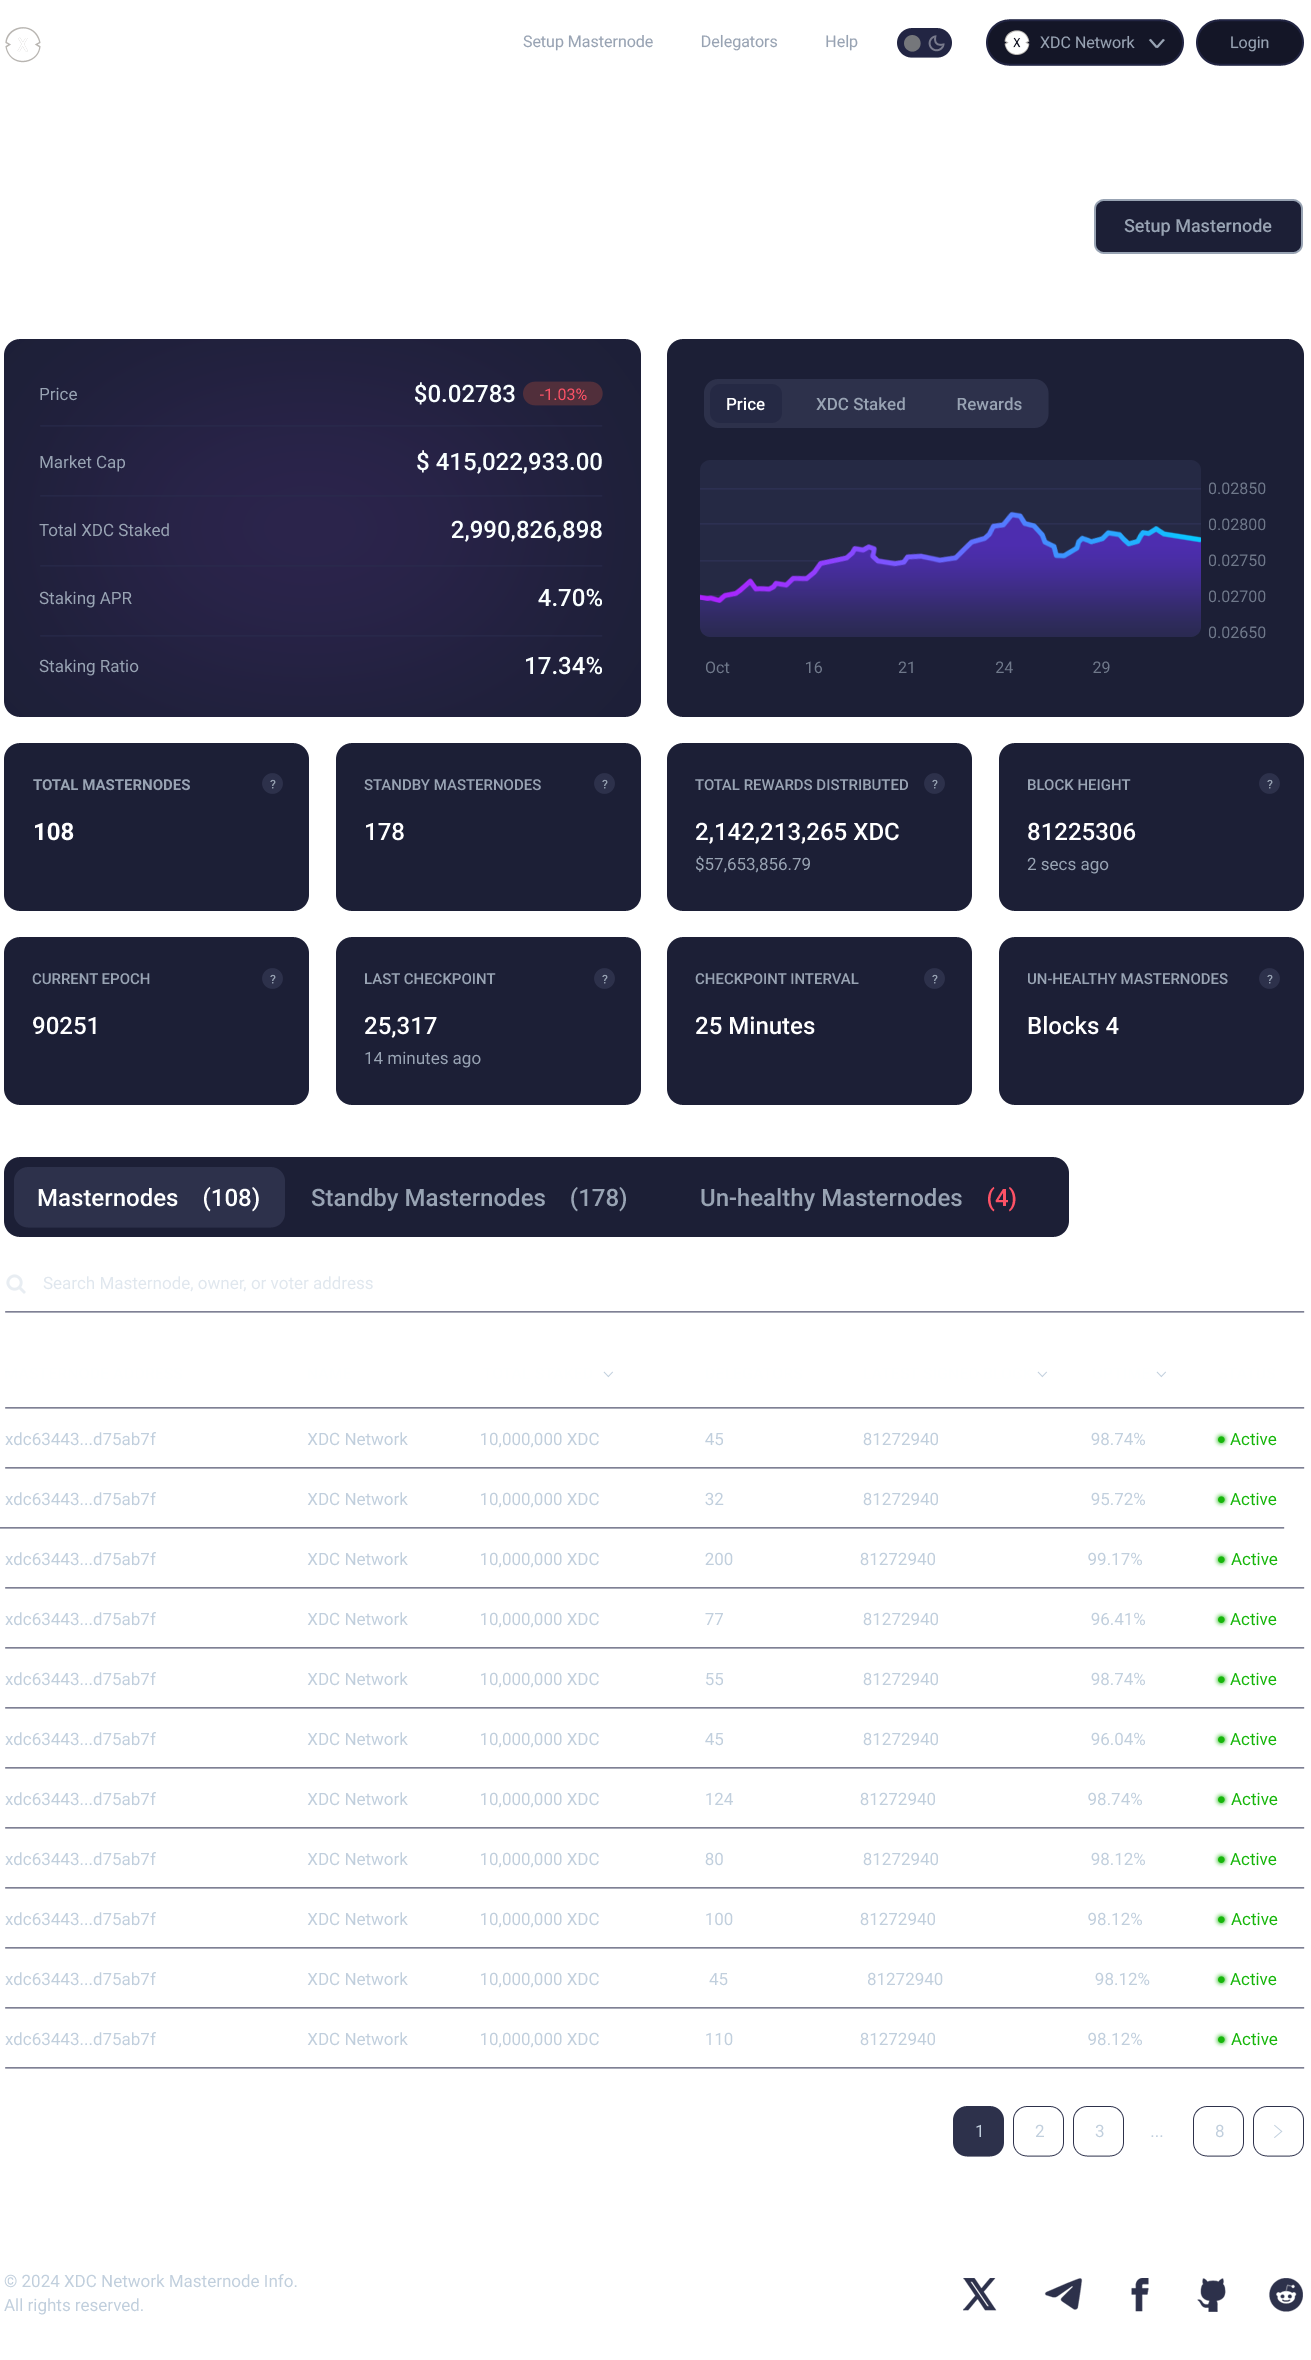
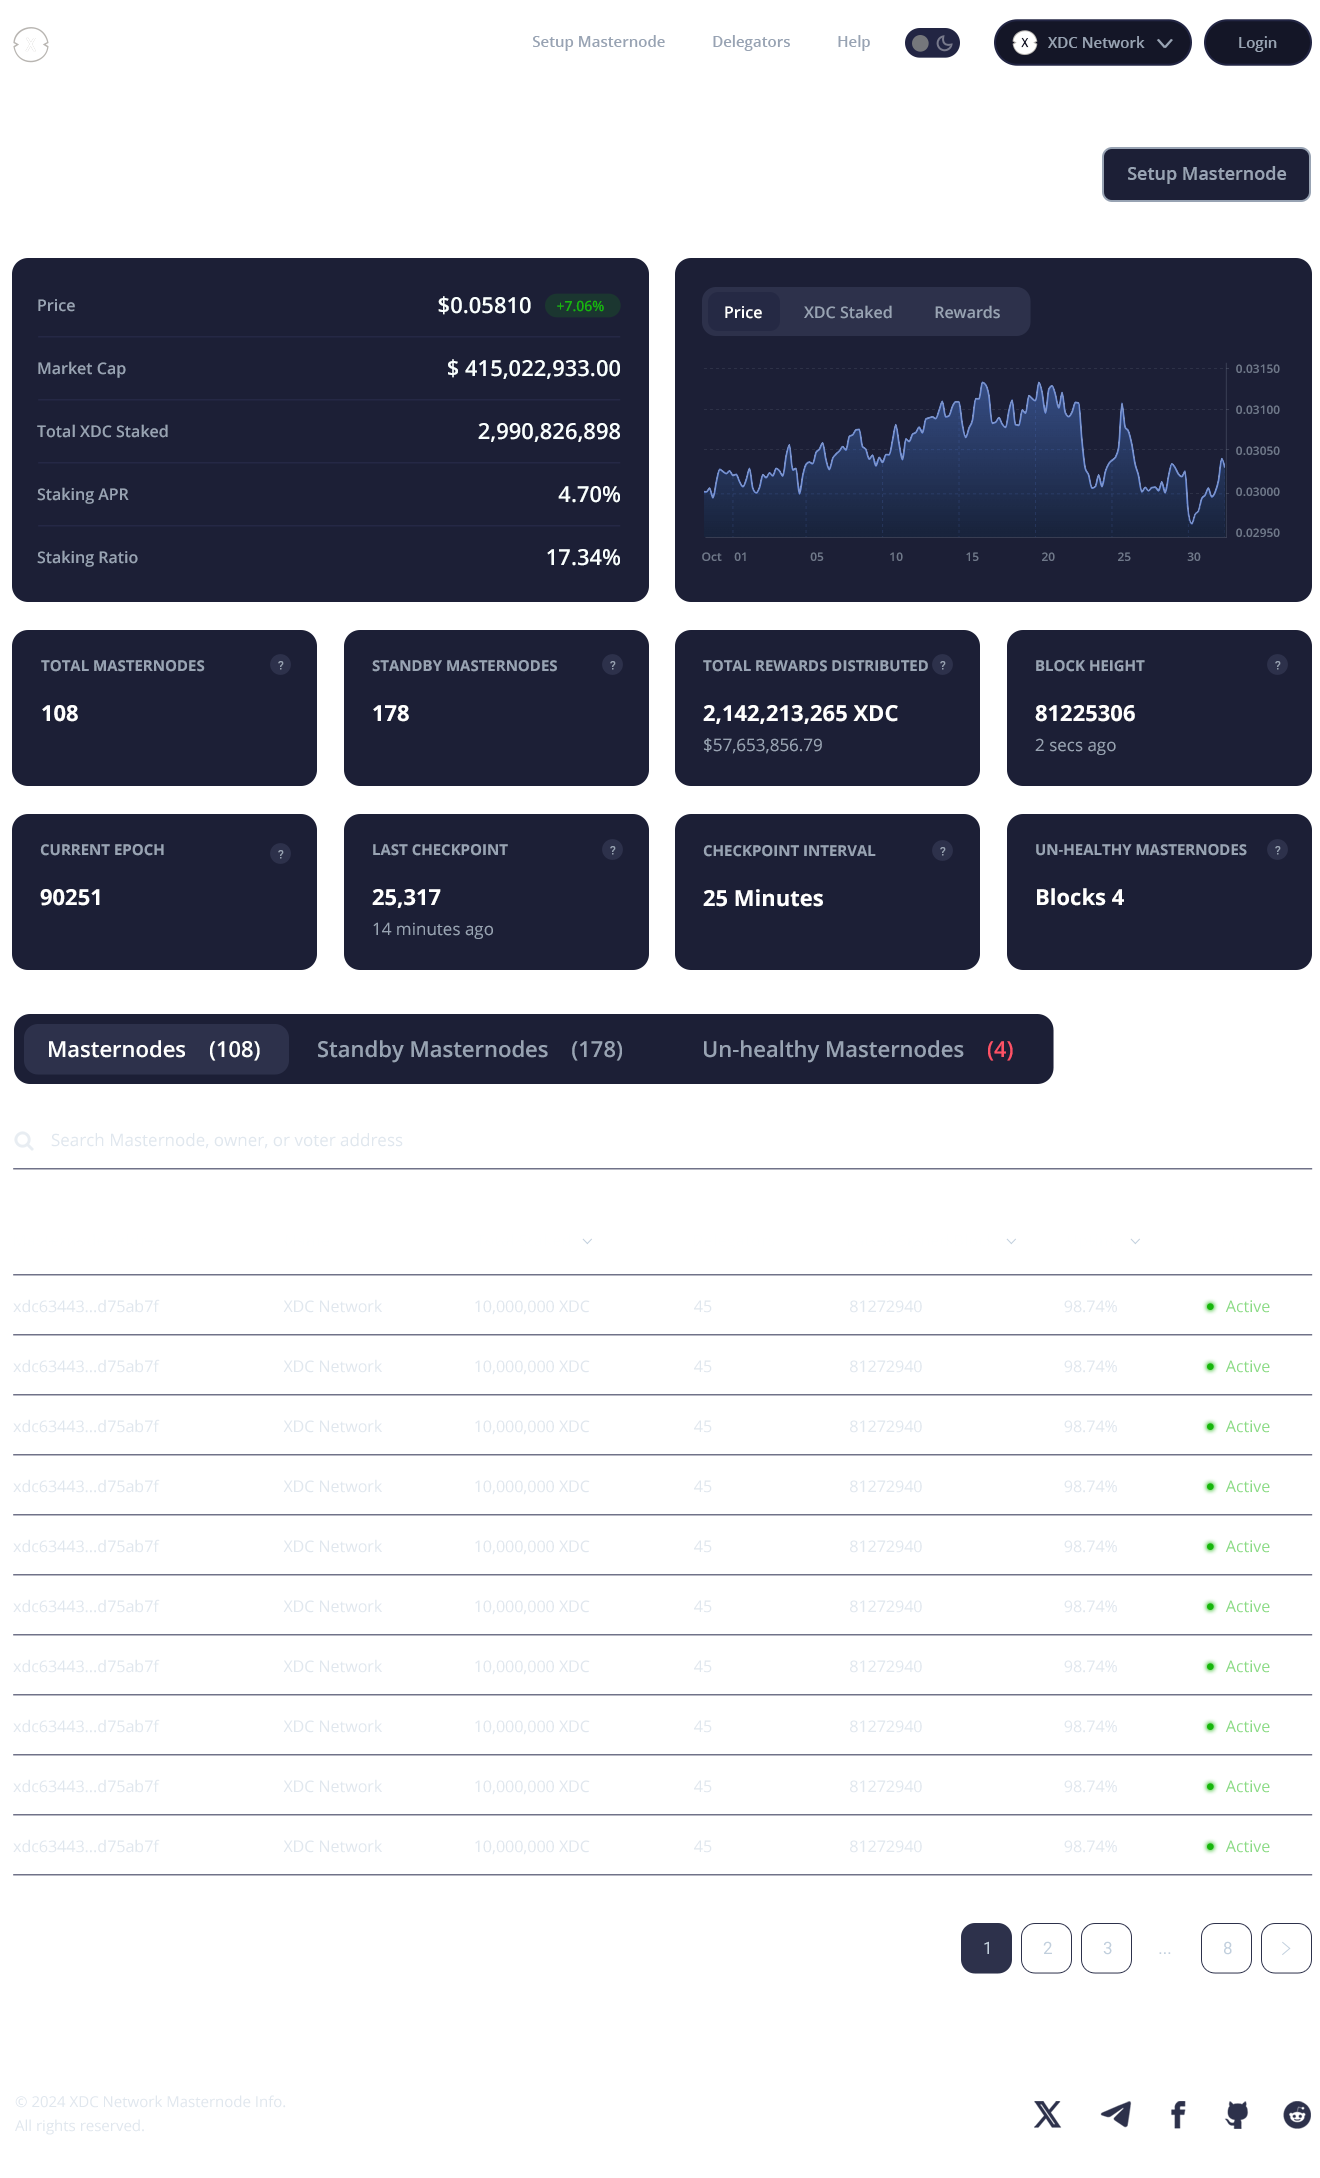
Masternode layout updates

diff --git a/xdcnetworkmasterodelayout/index2.html b/xdcnetworkmasterodelayout/index2.html
@@ -5,7 +5,7 @@
 <title>XDC Network Masternode</title>
 <style type="text/css">
 body {
-	background-image: url(images/bg.jpg);
+	background-image: url(images/bg2.jpg);
 	background-repeat: repeat-x;
 	margin: 0px;
 }
@@ -15,9 +15,9 @@ body {
 <body>
 <table width="100%" border="00" cellspacing="00" cellpadding="00">
   <tr>
-    <td><table width="1320" border="00" align="center" cellpadding="00" cellspacing="00">
+    <td><table width="1321" border="00" align="center" cellpadding="00" cellspacing="00">
       <tr>
-        <td><img src="images/layout.png" width="1320" height="2178" border="0" /></td>
+        <td><img src="images/layout2.png" width="1321" height="1570" border="0" /></td>
       </tr>
     </table></td>
   </tr>
